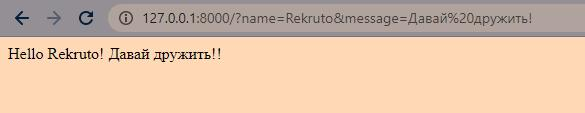
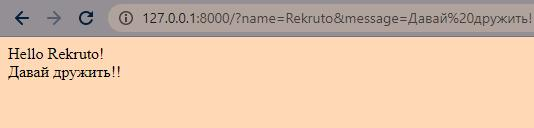
fixes

Changed region(s): [[0.0, 0.0531, 1.0, 0.3451], [0.0, 0.3717, 0.3895, 0.6372], [0.03, 0.0796, 0.0599, 0.1062]]

diff --git a/main/views.py b/main/views.py
@@ -8,4 +8,4 @@ class MainView(View):
     def get(self, request, *args, **kwargs):
         name = request.GET.get('name')
         message = request.GET.get('message')
-        return HttpResponse(f"Hello {name}!\n{message}!")
+        return HttpResponse(f"<span style=\"white-space: pre-line\">Hello {name}!\n{message}!</span>")
